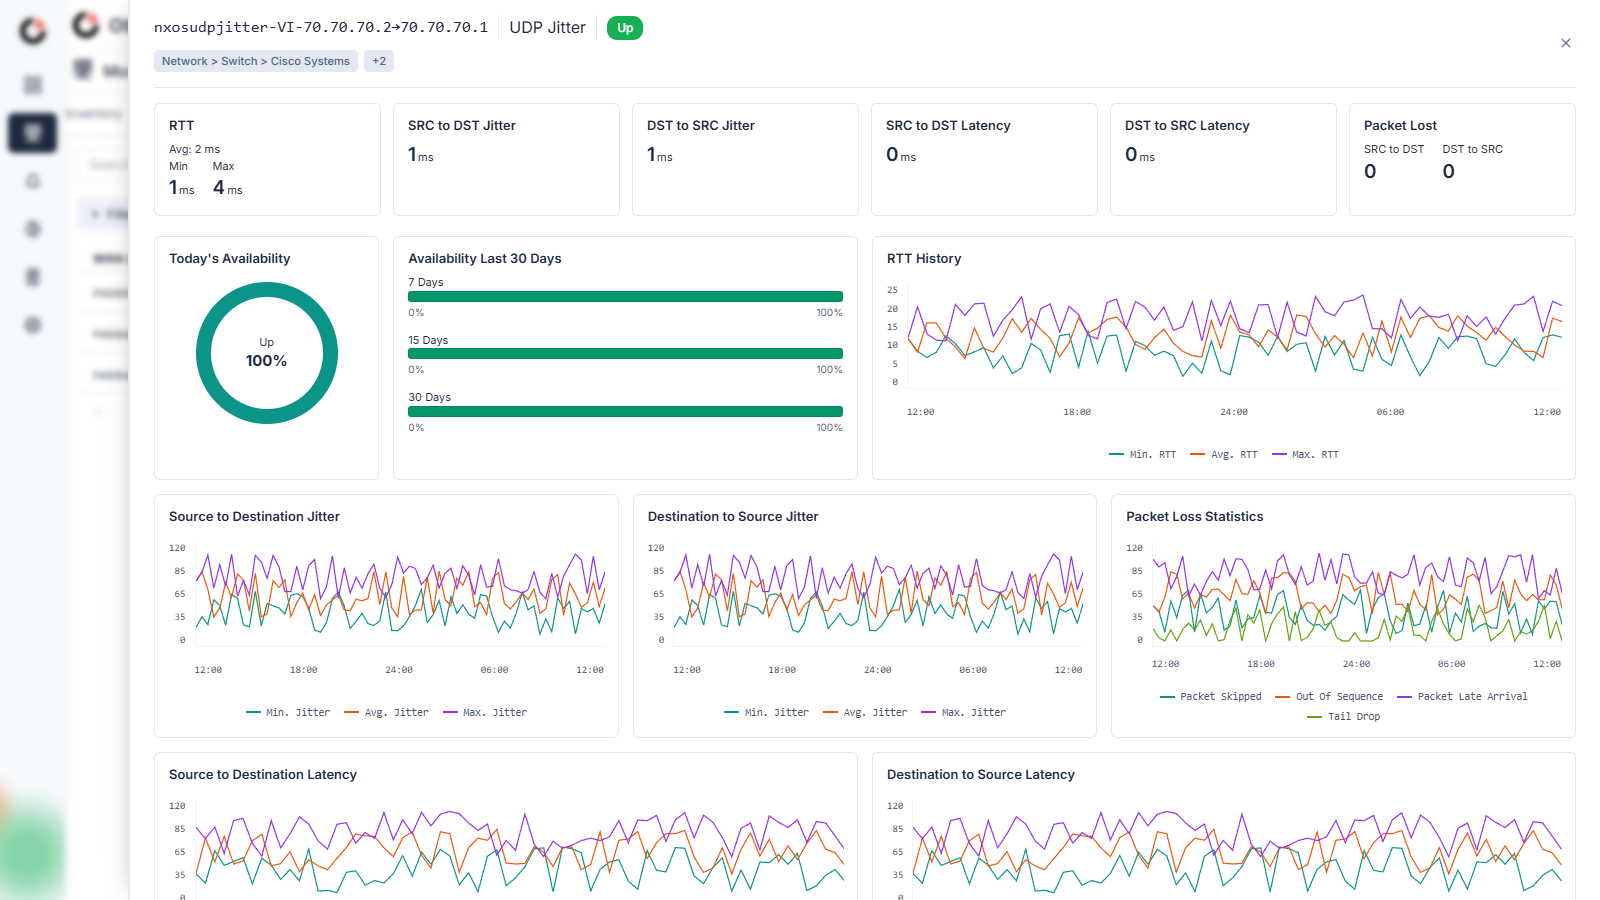
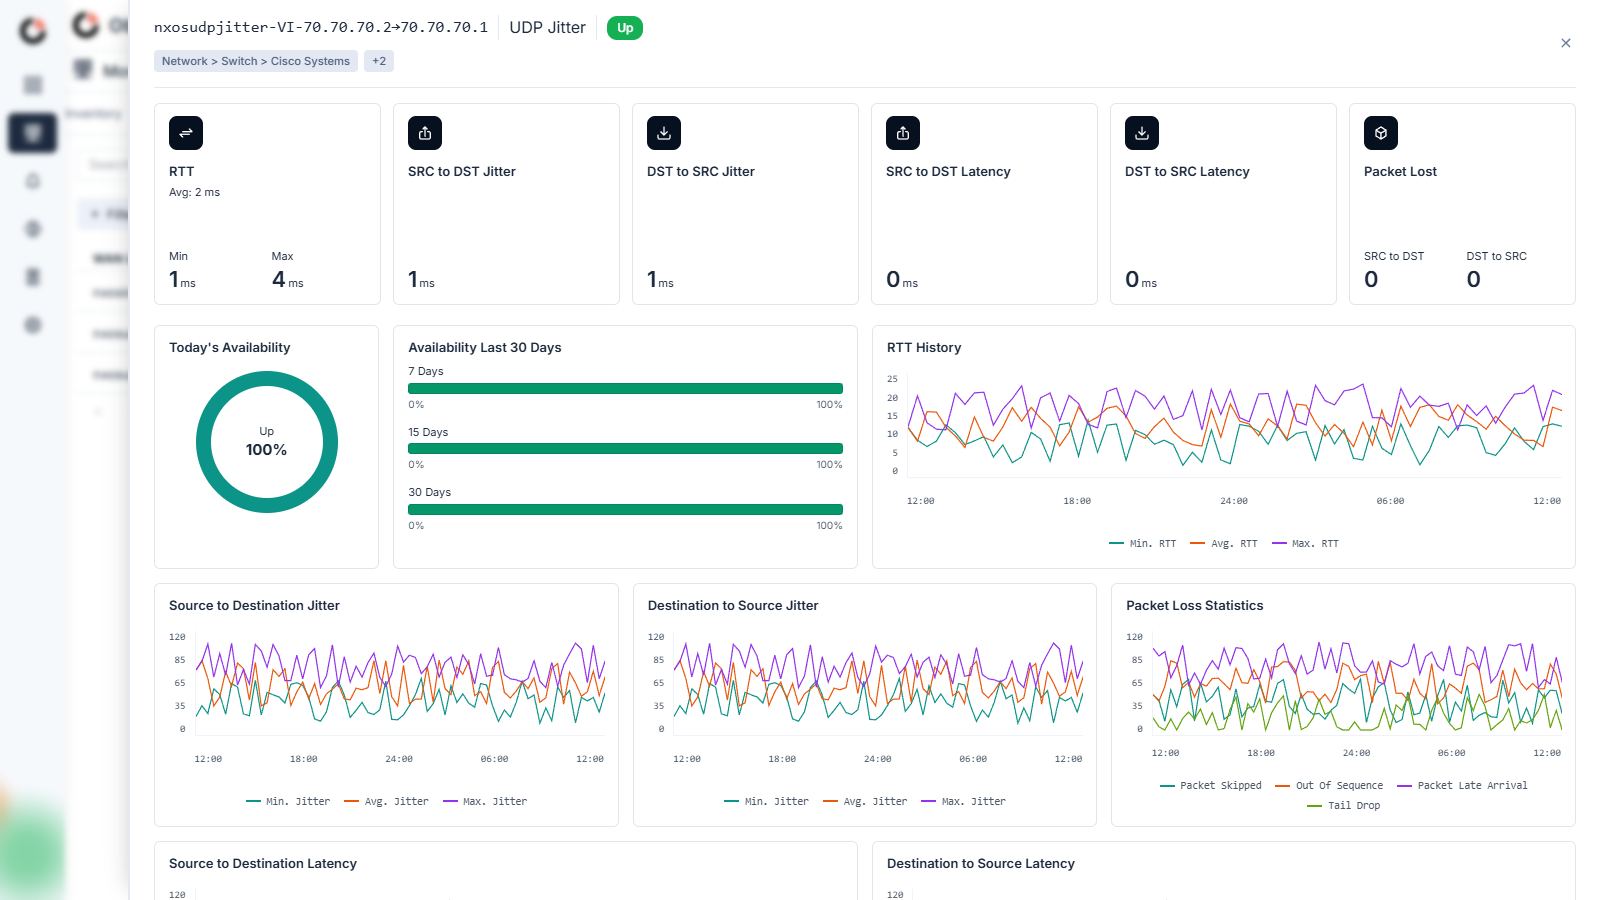
fix(wan-link): tile layout matches the product reference
Icon badge on top, title and caption under it, values pinned to the bottom
so every tile's numbers sit on one line across the row whether or not the
tile has a caption. Two equal value columns, as in the reference: a second
value starts at the tile's midpoint and a lone value sits in the left half.

Icon names were confirmed by rendering - the DS publishes no icon inventory
and an unknown name draws an empty badge with no error. The badge uses the
primary-button pair; the availability-icon pair is a pale tint, not the dark
filled surface the reference shows (measured: luminance 0.06 on 1.00).

diff --git a/src/wan-link/wanLink.css b/src/wan-link/wanLink.css
@@ -114,9 +114,53 @@
    widget grid — without this it inherits span 12 and every tile claims its own row. */
 .wl-tile { grid-column: auto; }
 
-.wl-tile__values { display: flex; gap: 18px; }
-.wl-tile__label { font-size: 11px; color: var(--secondary-text-color); }
-.wl-tile__value { font-size: 19px; font-weight: 600; color: var(--text-color); }
+/* Icon at the top, title and caption under it, values pinned to the BOTTOM — so every tile's
+   numbers sit on one line across the row whether or not the tile has a caption. */
+.wl-tile {
+  display: flex;
+  flex-direction: column;
+  min-height: 176px;
+}
+
+.wl-tile__icon {
+  width: 34px;
+  height: 34px;
+  border-radius: 8px;
+  display: grid;
+  place-items: center;
+  margin-bottom: 12px;
+  /* The reference badge is the dark filled surface with a light glyph. The availability-icon pair
+     is a pale tint, so the primary-button pair is the right one — it is defined as a filled
+     surface with a foreground guaranteed to read against it. */
+  background: var(--primary-button-bg);
+  color: var(--primary-button-text);
+}
+
+.wl-tile .wl-card__title { margin-bottom: 3px; }
+.wl-tile__caption { font-size: 11px; color: var(--secondary-text-color); }
+
+.wl-tile__values {
+  margin-top: auto;
+  padding-top: 20px;
+  /* Two equal columns, as in the reference: a second value starts at the tile's midpoint, and a
+     lone value sits in the left half rather than centring. */
+  display: grid;
+  grid-template-columns: repeat(2, minmax(0, 1fr));
+  gap: 8px;
+}
+
+.wl-tile__label {
+  font-size: 11px;
+  color: var(--secondary-text-color);
+  margin-bottom: 3px;
+}
+
+.wl-tile__value {
+  font-size: 22px;
+  font-weight: 600;
+  line-height: 1.1;
+  color: var(--text-color);
+}
 
 .wl-tile__unit {
   font-size: 11px;

diff --git a/src/wan-link/probes.js b/src/wan-link/probes.js
@@ -110,17 +110,19 @@ const JITTER_CHARTS = [
 ]
 
 // Values are the ones from the NX-OS sample output, so every tile traces back to a CLI line.
+// Icon names were confirmed by rendering — the DS publishes no icon inventory, and an unknown
+// name renders an empty box rather than failing. Direction is carried by upload / download.
 const JITTER_TILES = [
   {
-    title: 'RTT', caption: 'Avg: 2 ms',
+    title: 'RTT', caption: 'Avg: 2 ms', icon: 'exchange',
     values: [{ label: 'Min', value: '1', unit: 'ms' }, { label: 'Max', value: '4', unit: 'ms' }],
   },
-  { title: 'SRC to DST Jitter', caption: '', values: [{ label: '', value: '1', unit: 'ms' }] },
-  { title: 'DST to SRC Jitter', caption: '', values: [{ label: '', value: '1', unit: 'ms' }] },
-  { title: 'SRC to DST Latency', caption: '', values: [{ label: '', value: '0', unit: 'ms' }] },
-  { title: 'DST to SRC Latency', caption: '', values: [{ label: '', value: '0', unit: 'ms' }] },
+  { title: 'SRC to DST Jitter', caption: '', icon: 'upload', values: [{ label: '', value: '1', unit: 'ms' }] },
+  { title: 'DST to SRC Jitter', caption: '', icon: 'download', values: [{ label: '', value: '1', unit: 'ms' }] },
+  { title: 'SRC to DST Latency', caption: '', icon: 'upload', values: [{ label: '', value: '0', unit: 'ms' }] },
+  { title: 'DST to SRC Latency', caption: '', icon: 'download', values: [{ label: '', value: '0', unit: 'ms' }] },
   {
-    title: 'Packet Lost', caption: '',
+    title: 'Packet Lost', caption: '', icon: 'cube',
     values: [
       { label: 'SRC to DST', value: '0', unit: '' },
       { label: 'DST to SRC', value: '0', unit: '' },

diff --git a/src/wan-link/detailDrawer.js b/src/wan-link/detailDrawer.js
@@ -8,11 +8,12 @@ const escape = (value) =>
 
 const tileHTML = (tile) => `
   <div class="wl-card wl-tile">
+    <span class="wl-tile__icon"><obs-icon name="${escape(tile.icon)}" size="16"></obs-icon></span>
     <h3 class="wl-card__title">${escape(tile.title)}</h3>
-    ${tile.caption ? `<div class="wl-tile__label">${escape(tile.caption)}</div>` : ''}
+    ${tile.caption ? `<div class="wl-tile__caption">${escape(tile.caption)}</div>` : ''}
     <div class="wl-tile__values">
       ${tile.values.map((v) => `
-        <div>
+        <div class="wl-tile__cell">
           ${v.label ? `<div class="wl-tile__label">${escape(v.label)}</div>` : ''}
           <div class="wl-tile__value">${escape(v.value)}${v.unit ? `<span class="wl-tile__unit">${escape(v.unit)}</span>` : ''}</div>
         </div>`).join('')}
